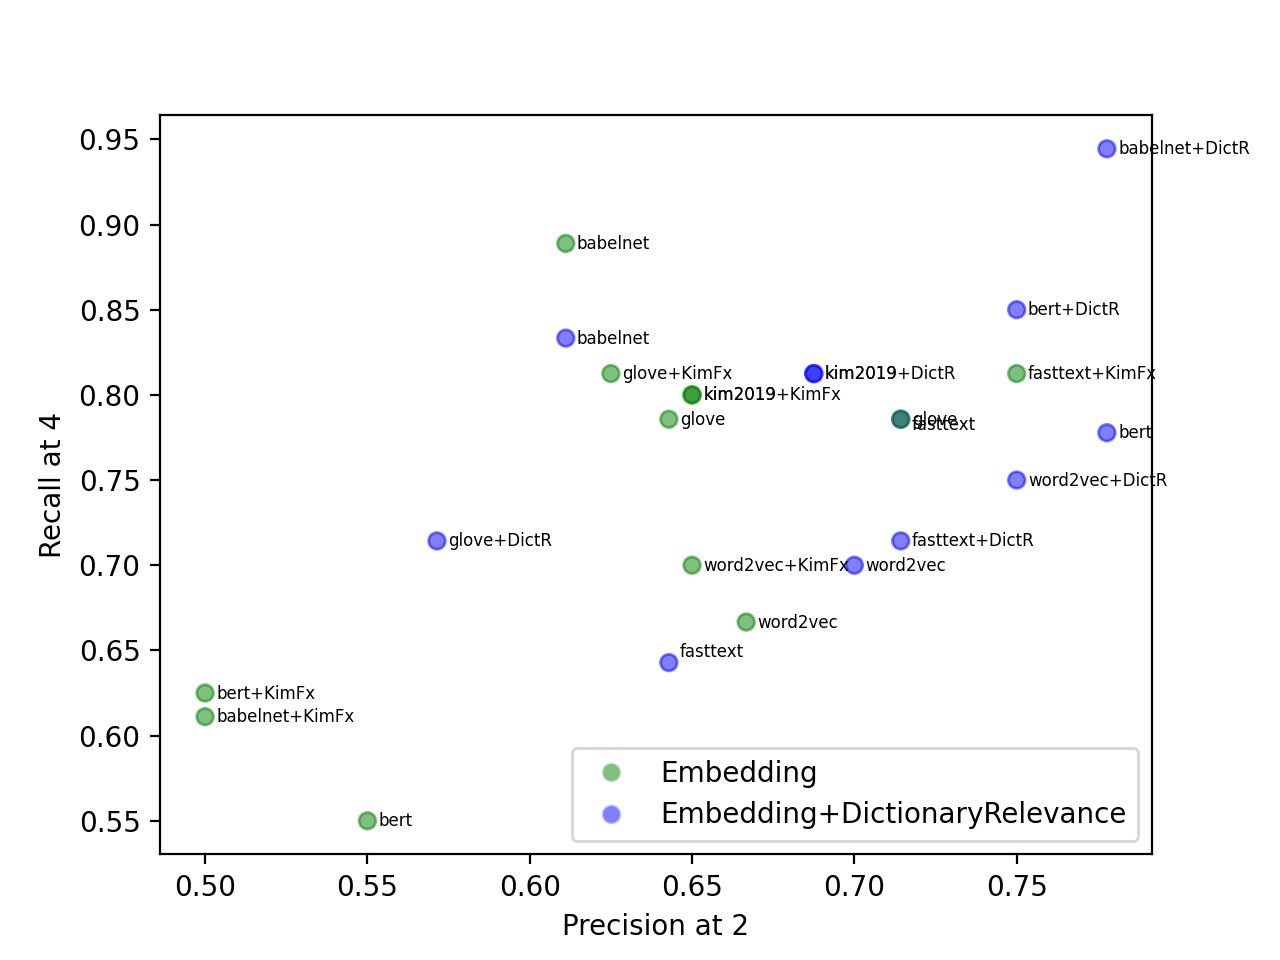
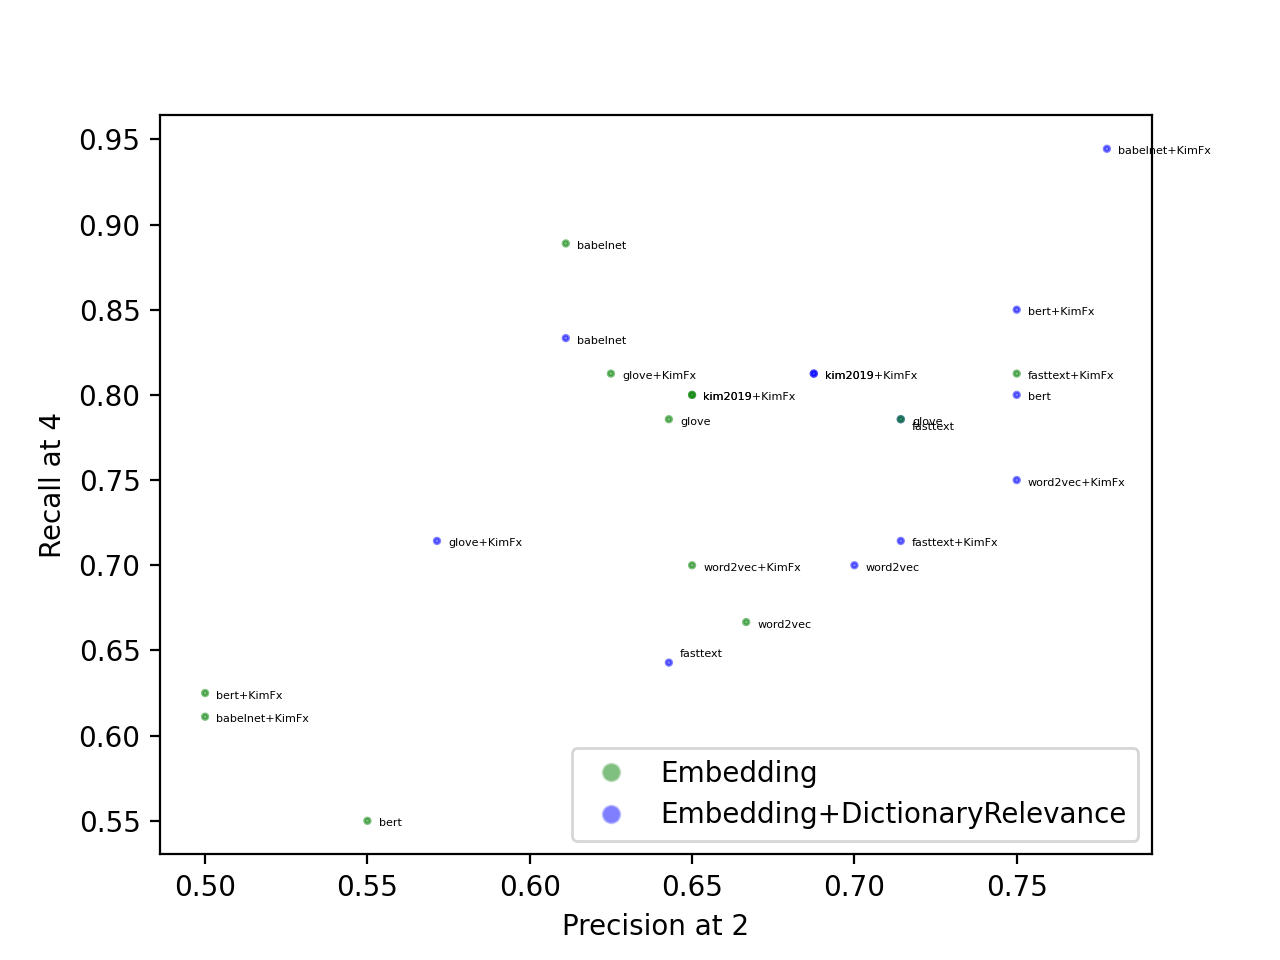
Charting updates

diff --git a/stats/stats.py b/stats/stats.py
@@ -209,7 +209,7 @@ def plot(avg_stats):
 
 
 	for embedding in avg_stats:
-		embedding_label = embedding if '+DictRelevance' not in embedding else embedding[:-14]
+		embedding_label = embedding.replace('+DictRelevance', '')
 		labels.append(embedding_label)
 		x.append(avg_stats[embedding]['intendedWordPrecisionAt2'])
 		y.append(avg_stats[embedding]['intendedWordRecallAt4'])
@@ -219,7 +219,7 @@ def plot(avg_stats):
 			colors.append('green')
 
 	fig, ax = plt.subplots()
-	scatter = ax.scatter(x, y, c=colors, alpha=0.5)
+	scatter = ax.scatter(x, y, c=colors, alpha=0.5, s=4)
 
 	for i, txt in enumerate(labels):
 		if txt == 'fasttext':
@@ -231,7 +231,7 @@ def plot(avg_stats):
 			offset = (4,-2)
 		ax.annotate(txt, 
 					(x[i], y[i]), 
-					fontsize=6, 
+					fontsize=4, 
 					textcoords="offset points", # how to position the text
 					xytext=offset, 
 					ha='left')
